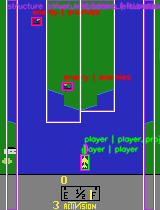
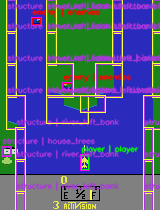
update quirks for riverraid

Changed region(s): [[0.0, 0.0, 1.0, 1.0]]

diff --git a/praktikum_obj_detection_team/auto_explorer.py b/praktikum_obj_detection_team/auto_explorer.py
@@ -53,7 +53,7 @@ CLASS_KEYWORDS = [
     (3, ["collectible", "fruit", "child", "bell", "princess",
          "item", "coin", "rejuvenator", "energy_pod", "fish",
          "score_item", "kill_item", "prize", "chest", "key",
-         "power", "pellet", "letter", "target_word", "oxygen_line"]),
+         "power", "pellet", "letter", "target_word", "oxygen_line", "fuel_tank"]),
 
     # class 4 — structure
     (4, ["block", "platform", "ladder", "wall", "grid", "path",
@@ -61,7 +61,7 @@ CLASS_KEYWORDS = [
          "mountain", "lane_blocker", "road", "ice", "obstacle",
          "board", "cube", "bumper", "flipper", "plunger",
          "rollover", "hole", "spinner", "door", "portal",
-         "rope", "conveyor", "completed_rect", "walked", "barricade_health"]),
+         "rope", "conveyor", "completed_rect", "walked", "barricade_health", "house_tree", "dam_indicator"]),
 
     # class 5 — neutral
     (5, ["truck", "car", "jet", "chopper", "cloud", "ufo",
